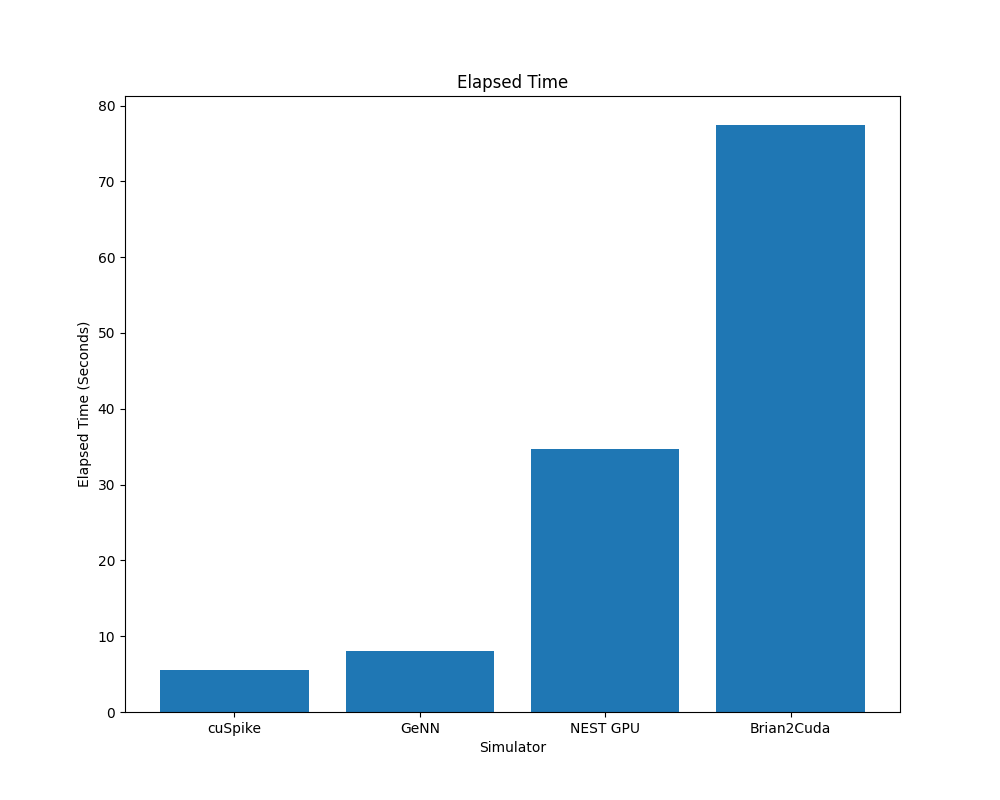
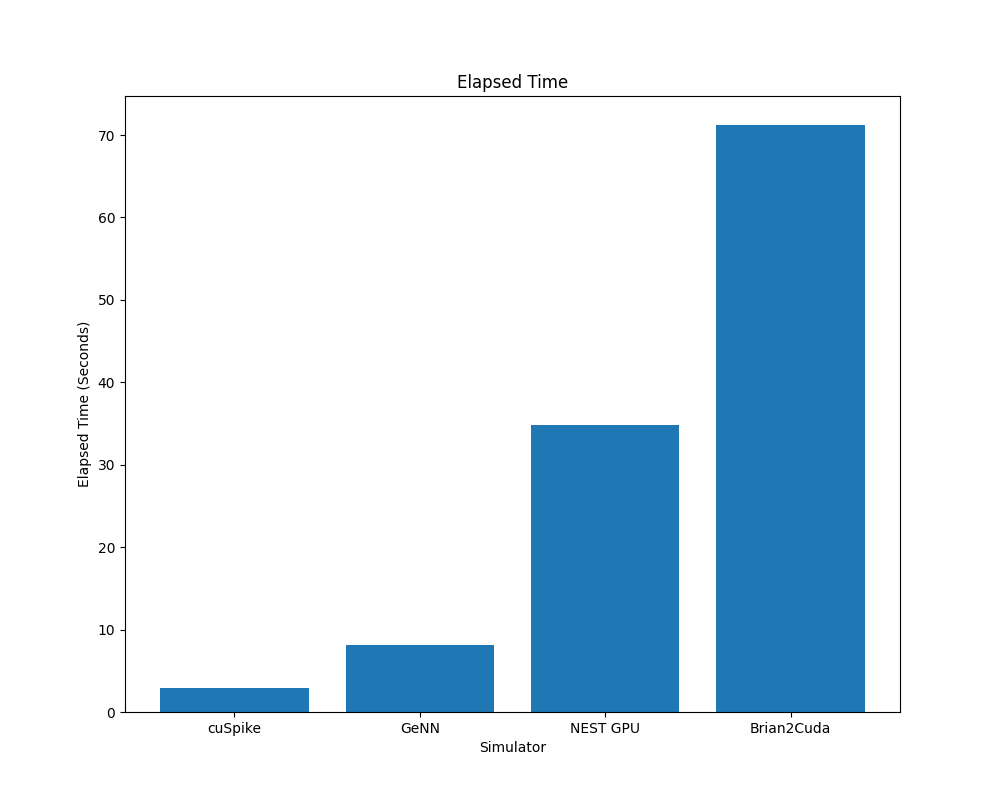
Convert the project into a python package, add python API

diff --git a/pycuspike/model.py b/pycuspike/model.py
@@ -1,0 +1,85 @@
+import os
+import subprocess
+import shutil
+import hashlib
+import numpy as np
+
+from pathlib import Path
+
+class Model:
+    def __init__(self, file_name):
+        self.file_name = Path(file_name).absolute()
+
+        self.build_directory = Path('cuspike-build')
+        self.checksum_file_path = self.build_directory / 'checksum.txt'
+
+        self.module_home = os.path.dirname(__file__)
+        self.cuspike_home = os.path.dirname(self.module_home)
+
+
+    def _run_command(self, command):
+        result = subprocess.run(command, shell=True)
+        if result.returncode != 0:
+            raise Exception(f'Command {command} failed.')
+
+
+    def _load_model_and_compare_checksum(self, model_file):
+        self.model_contents = model_file.read()
+        self.model_checksum = hashlib.md5().hexdigest()
+
+        # If a build directory does not exist, return false
+        if not self.build_directory.exists() or not self.build_directory.is_dir():
+            return False
+
+        # If a build directory exists, but it does not contain a checksum file, return false
+        if not self.checksum_file_path.exists() or not self.checksum_file_path.is_file():
+            return False
+
+        # If a build directory and a checksum file exists, compare whether it is the same
+        with open(self.checksum_file_path, 'r') as checksum_file:
+            return self.model_checksum == checksum_file.read()
+
+
+    def build(self):
+        with open(self.file_name, 'rb') as model_file:
+            # If the same built has been done before, return immediately.
+            if self._load_model_and_compare_checksum(model_file):
+                return
+
+            # Delete files from previous build
+            if self.build_directory.exists() and self.build_directory.is_dir():
+                shutil.rmtree(self.build_directory)
+
+            # Create new build directory
+            self.build_directory.mkdir()
+
+            # Create directories for generated code files
+            (self.build_directory / 'generated' / 'kernel-global').mkdir(parents=True)
+            (self.build_directory / 'generated' / 'kernel-register').mkdir(parents=True)
+
+            # Compile the model into CUDA files
+            self._run_command(f"cd cuspike-build && cpp -E {self.file_name} | grep -wv '#' | {self.cuspike_home}/compiler/compiler")
+
+            # Copy static simulator files into the build directory
+            self._run_command(f"cp -r {self.cuspike_home}/simulator/* ./cuspike-build/")
+
+            # Compile the simulator
+            self._run_command("cd cuspike-build && make -j$(nproc)")
+
+            # Create output directory
+            (self.build_directory / 'output').mkdir(parents=True)
+
+            # Save the new checksum
+            with open(self.checksum_file_path, 'w') as f:
+                f.write(self.model_checksum)
+
+
+    def simulate(self):
+        self._run_command("cd cuspike-build && ./simulator.exe plot")
+
+
+    def spikes(self):
+        t_array = np.fromfile('cuspike-build/output/t_array.dat', dtype=np.float32)
+        s_array = np.fromfile('cuspike-build/output/s_array.dat', dtype=np.int32)
+
+        return t_array, s_array

diff --git a/setup.py b/setup.py
@@ -1,0 +1,16 @@
+from setuptools import setup, find_packages
+
+VERSION = '0.1'
+DESCRIPTION = 'cuSpike Python API'
+LONG_DESCRIPTION = 'A high-performance spiking neural network simulator for CUDA with partial support for arbitrary neuron models'
+
+setup(
+        name="cuspike",
+        version=VERSION,
+        author="Dogu Kocatepe",
+        description=DESCRIPTION,
+        long_description=LONG_DESCRIPTION,
+        packages=find_packages(),
+        python_requires=">=3.12",
+        install_requires=['numpy']
+)

diff --git a/benchmark/cobahh/simulate_cuspike.py b/benchmark/cobahh/simulate_cuspike.py
@@ -1,0 +1,20 @@
+import timeit
+t_begin = timeit.default_timer()
+
+from pycuspike import Model
+
+import matplotlib.pyplot as plt
+import numpy as np
+
+model = Model('cobahh.csm')
+model.build()
+model.simulate()
+
+t_end = timeit.default_timer()
+with open('cuspike-elapsedtime.txt', 'w') as f:
+    f.write(str(t_end - t_begin))
+
+t_array, s_array = model.spikes()
+plt.figure(figsize=(75, 75))
+plt.plot(t_array, s_array, ',k')
+plt.savefig('cuspike.png')

diff --git a/benchmark/cuba/simulate_cuspike.py b/benchmark/cuba/simulate_cuspike.py
@@ -1,0 +1,20 @@
+import timeit
+t_begin = timeit.default_timer()
+
+from pycuspike import Model
+
+import matplotlib.pyplot as plt
+import numpy as np
+
+model = Model('cuba.csm')
+model.build()
+model.simulate()
+
+t_end = timeit.default_timer()
+with open('cuspike-elapsedtime.txt', 'w') as f:
+    f.write(str(t_end - t_begin))
+
+t_array, s_array = model.spikes()
+plt.figure(figsize=(75, 75))
+plt.plot(t_array, s_array, ',k')
+plt.savefig('cuspike.png')

diff --git a/benchmark/plot.py b/benchmark/plot.py
@@ -4,7 +4,7 @@ import numpy as np
 from pathlib import Path
 
 simulators = {
-    'cuSpike': '../../cuspike-elapsedtime.txt',
+    'cuSpike': 'cuspike-elapsedtime.txt',
     'GeNN': 'genn-elapsedtime.txt',
     'NEST GPU': 'nestgpu-elapsedtime.txt',
     'Brian2Cuda': 'brian2cuda-elapsedtime.txt'

diff --git a/benchmark/cobahh/simulate_brian2cuda.py b/benchmark/cobahh/simulate_brian2cuda.py
@@ -67,7 +67,7 @@ P.gi = '20 * 10.0*nS'
 
 s_mon = SpikeMonitor(P)
 
-run(5 * second)
+run(2 * second)
 
 t_end = timeit.default_timer()
 with open('brian2cuda-elapsedtime.txt', 'w') as f:

diff --git a/pycuspike/__init__.py b/pycuspike/__init__.py
@@ -1,0 +1,2 @@
+from .model import Model
+
